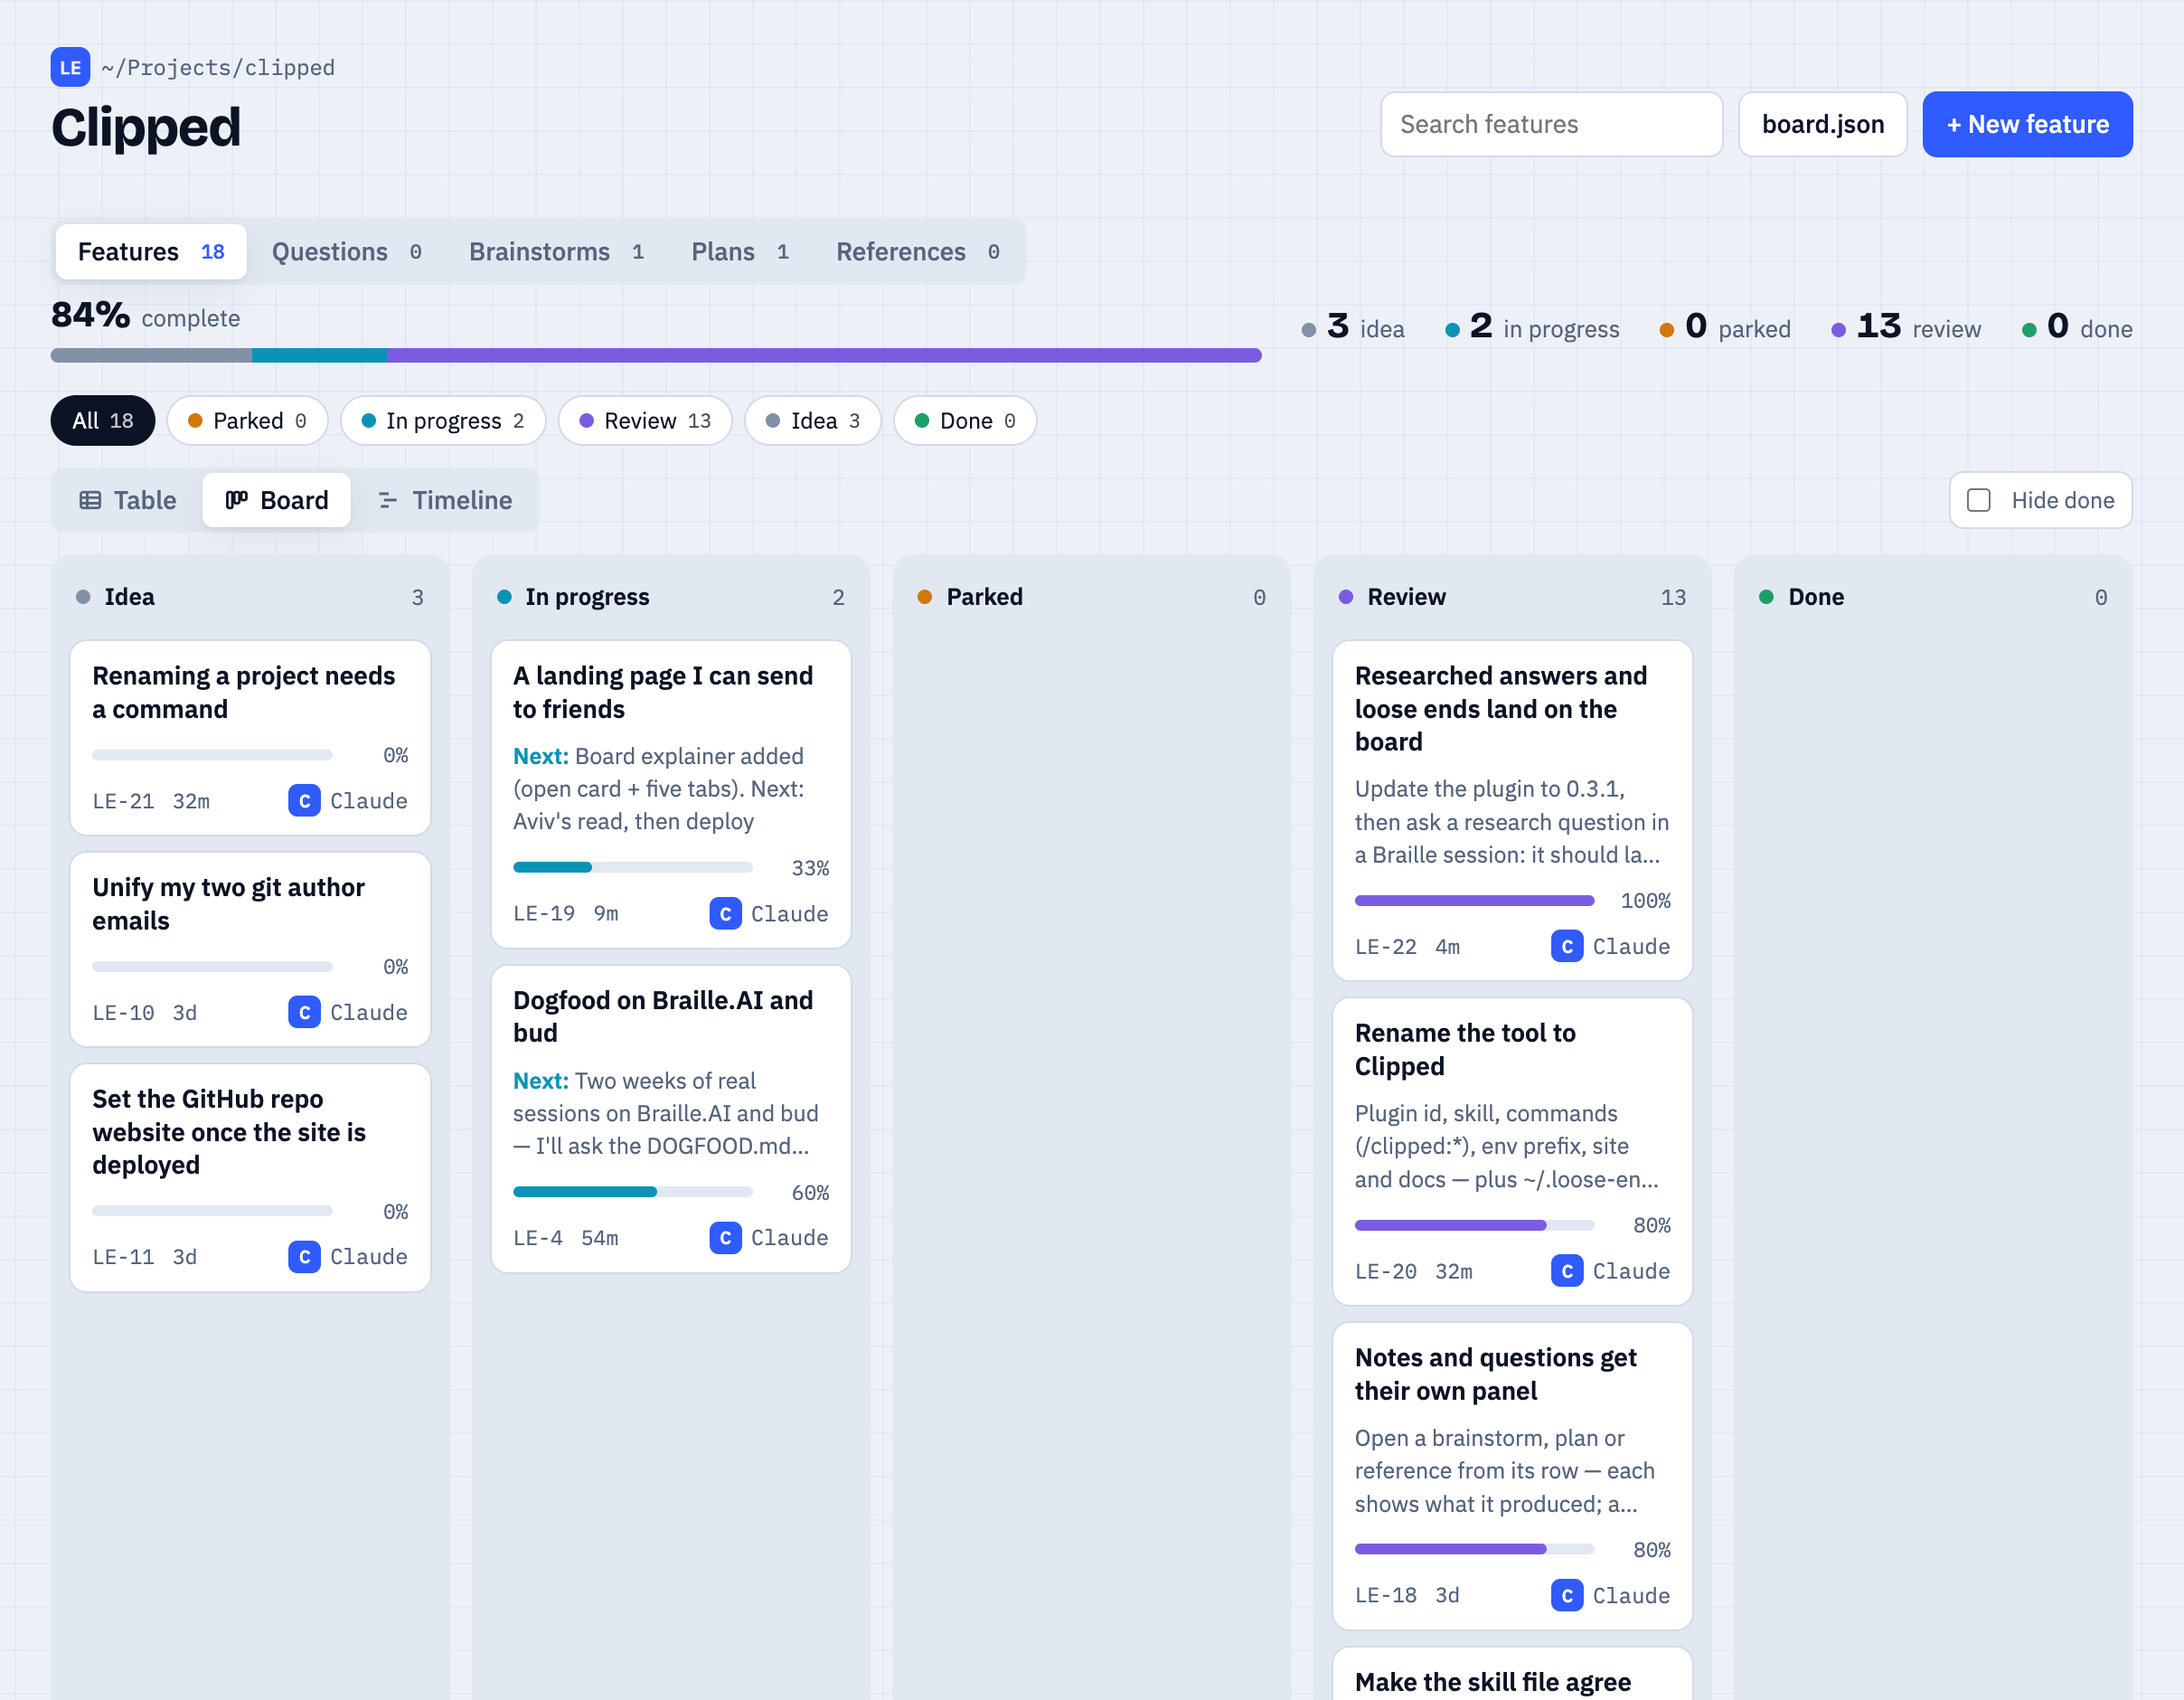
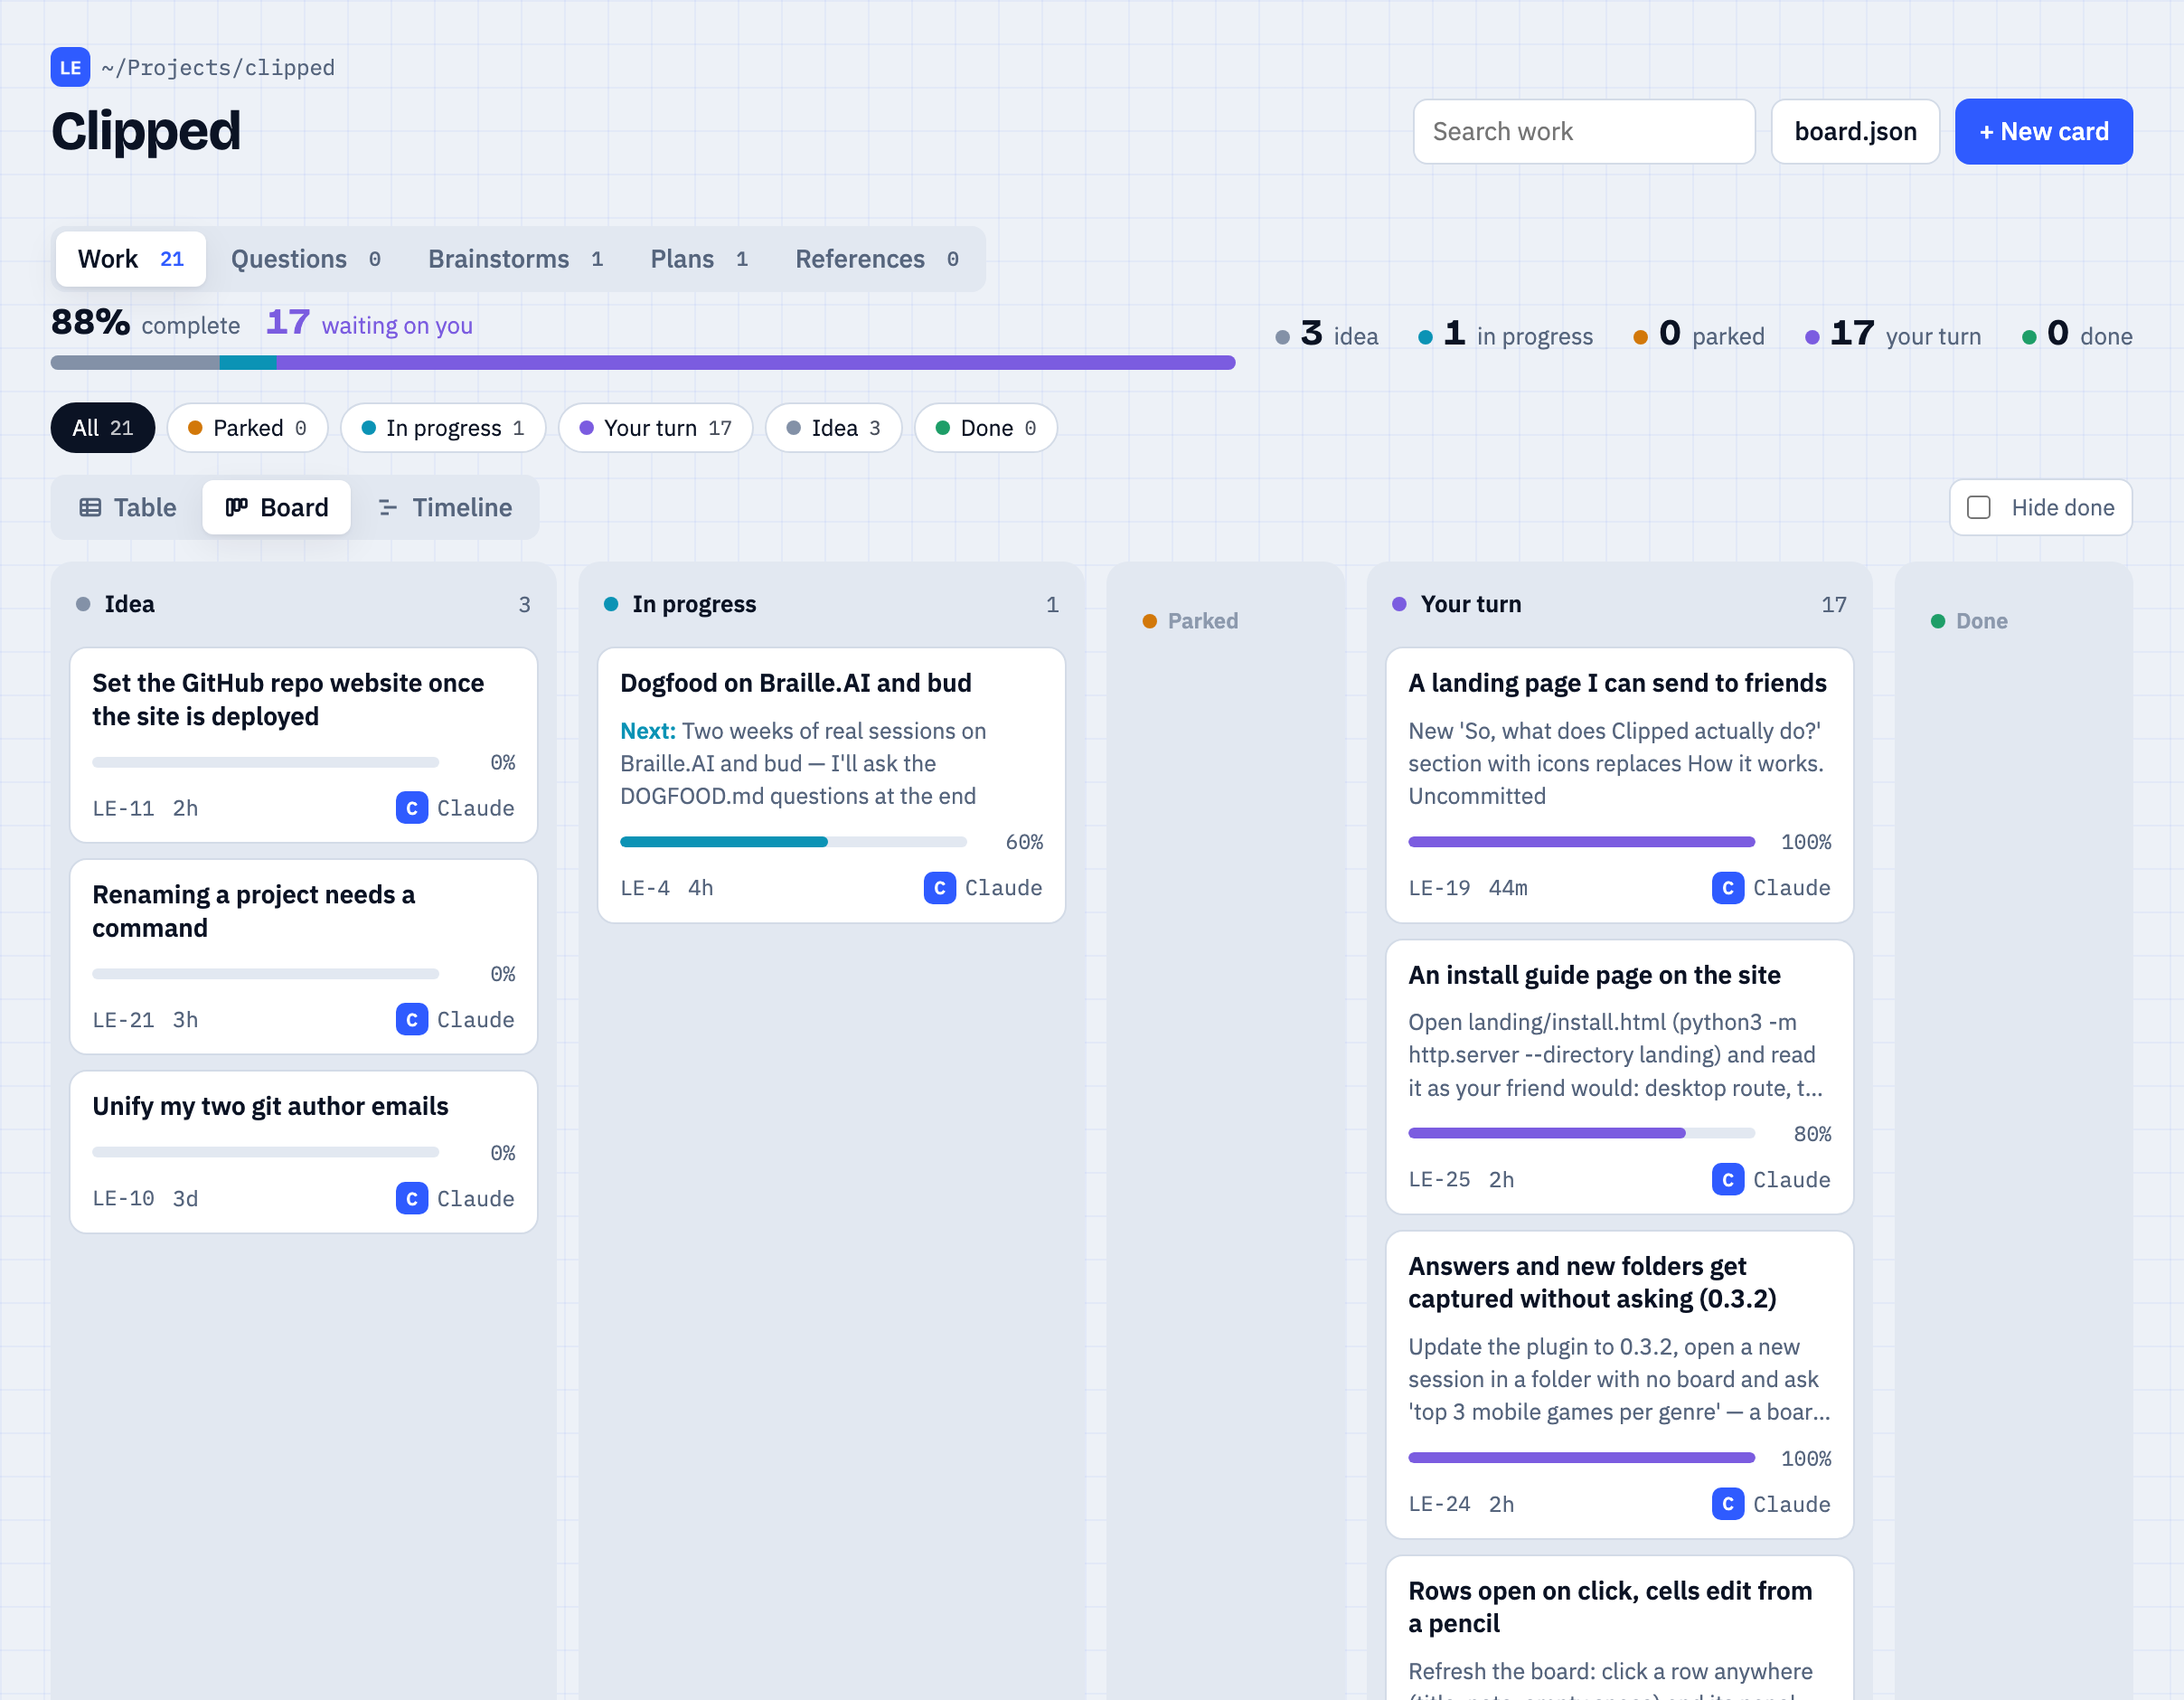
The page shows the board as it is now
Six screenshots re-shot from the real board at 2x: Work instead of Features,
Your turn instead of Review, the waiting figure beside the percentage, and
empty columns down to a rail. The project is genuinely called Clipped now, so
only the folder path is shortened — which the caption already says.

The hero word also stopped bumping the line. It types and deletes itself, and
an empty span has no line box, so the chip lost 8px of height at the end of
every cycle; a zero-width space holds the box open. On a phone the same
animation was costing a whole line as the sentence after it rewrapped, so the
word and that sentence now get their own lines below 560px.

diff --git a/landing/style.css b/landing/style.css
@@ -304,6 +304,14 @@ footer a { color: var(--ink); }
 .tagline { font-family: var(--sans); font-weight: 500; font-size: clamp(19px, 1.9vw, 27px); line-height: 1.45; letter-spacing: -0.01em; margin: 0 0 20px; color: var(--ink); }
 .tagline-2 { color: var(--muted); }
 .rot { display: inline-block; vertical-align: baseline; }
+/* The word types and deletes itself, and an empty span has no line box at all —
+   so the chip lost ~8px of height at the end of every cycle and the line jumped.
+   A zero-width space keeps the line box whatever the text is doing. */
+.rot-txt::after { content: "\200B"; }
+/* On a narrow screen the growing word rewraps the sentence after it, which
+   costs a whole line every cycle. Give the word and the rest their own lines
+   and the block stops moving. */
+@media (max-width: 560px) { .rot, .tagline-2 { display: block; } }
 .rot-chip { display: inline-flex; align-items: center; font-family: var(--mono); font-weight: 600; font-size: .9em; letter-spacing: -0.02em; color: var(--accent); white-space: pre; background: color-mix(in srgb, var(--accent) 12%, transparent); border-radius: 6px; padding: .2em .45em; }
 .rot-caret { display: inline-block; width: .55ch; height: 1em; margin-left: .06em; align-self: center; background: currentColor; animation: blink 1.1s steps(1) infinite; }
 @media (prefers-reduced-motion: reduce) { .rot-caret { animation: none; } .rot-chip { transition: none; } }

diff --git a/landing/index.html b/landing/index.html
@@ -36,7 +36,7 @@
 <main>
   <div class="hero">
     <div>
-      <p class="badge"><span class="live" aria-hidden="true"></span><span class="bi"><b>clipped</b> v0.4.0</span><span class="sep">·</span><span class="bi">plugin for Claude Code</span><span class="sep m-hide">·</span><span class="bi m-hide">MIT</span><span class="sep m-hide">·</span><span class="bi m-hide">local-only</span></p>
+      <p class="badge"><span class="live" aria-hidden="true"></span><span class="bi"><b>clipped</b> v0.5.0</span><span class="sep">·</span><span class="bi">plugin for Claude Code</span><span class="sep m-hide">·</span><span class="bi m-hide">MIT</span><span class="sep m-hide">·</span><span class="bi m-hide">local-only</span></p>
       <h1>What did you and Claude<br><span class="h1-dim">decide last week?</span></h1>
       <p class="tagline">
         Clipped keeps track of your <span class="rot" aria-hidden="true"><span class="rot-chip"><span class="rot-txt">features</span><span class="rot-caret"></span></span></span><span class="sr-only">features, half-done work, questions, brainstorms, plans and decisions</span> <span class="tagline-2">so nothing gets lost while you work.</span>
